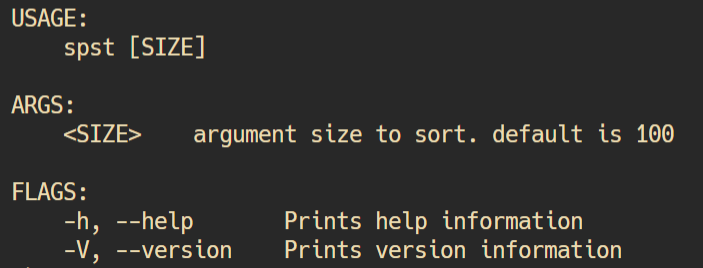
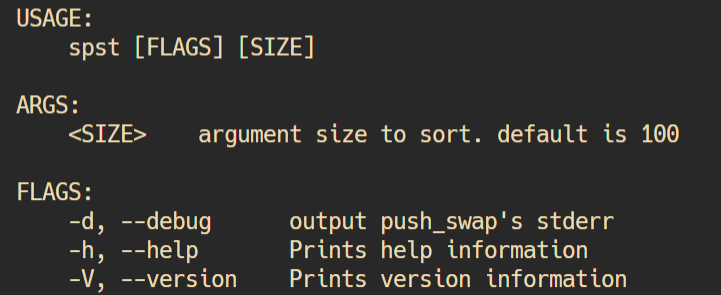
add debug print option

diff --git a/src/main.rs b/src/main.rs
@@ -15,6 +15,9 @@ use termion::color;
     about = "simple push_swap checker\ncheck sorting five times and output average step."
 )]
 struct Cli {
+    /// output push_swap's stderr
+    #[clap(short = 'd', long = "debug")]
+    debug: bool,
     /// argument size to sort. default is 100.
     #[clap(name = "SIZE")]
     size: Option<usize>,
@@ -46,6 +49,11 @@ fn main() {
         let answer = p_s.stdout;
         steps[n - 1] = answer.split(|&c| c == '\n' as u8).count() - 1;
 
+        if args.debug == true {
+            let debug_print = str::from_utf8(&p_s.stderr).unwrap();
+            println!("{}", debug_print);
+        }
+
         let mut checker = Command::new("./checker")
                                 .args(list.iter())
                                 .stdin(Stdio::piped())
@@ -73,7 +81,6 @@ fn main() {
         } else if eresult == "Error\n" {
             println!("{}Error{}", color::Fg(color::Red), color::Fg(color::Reset));
         }
-        stdout().flush().unwrap();
     }
     let mut sum:usize = steps.iter().sum();
     sum /= 5;
